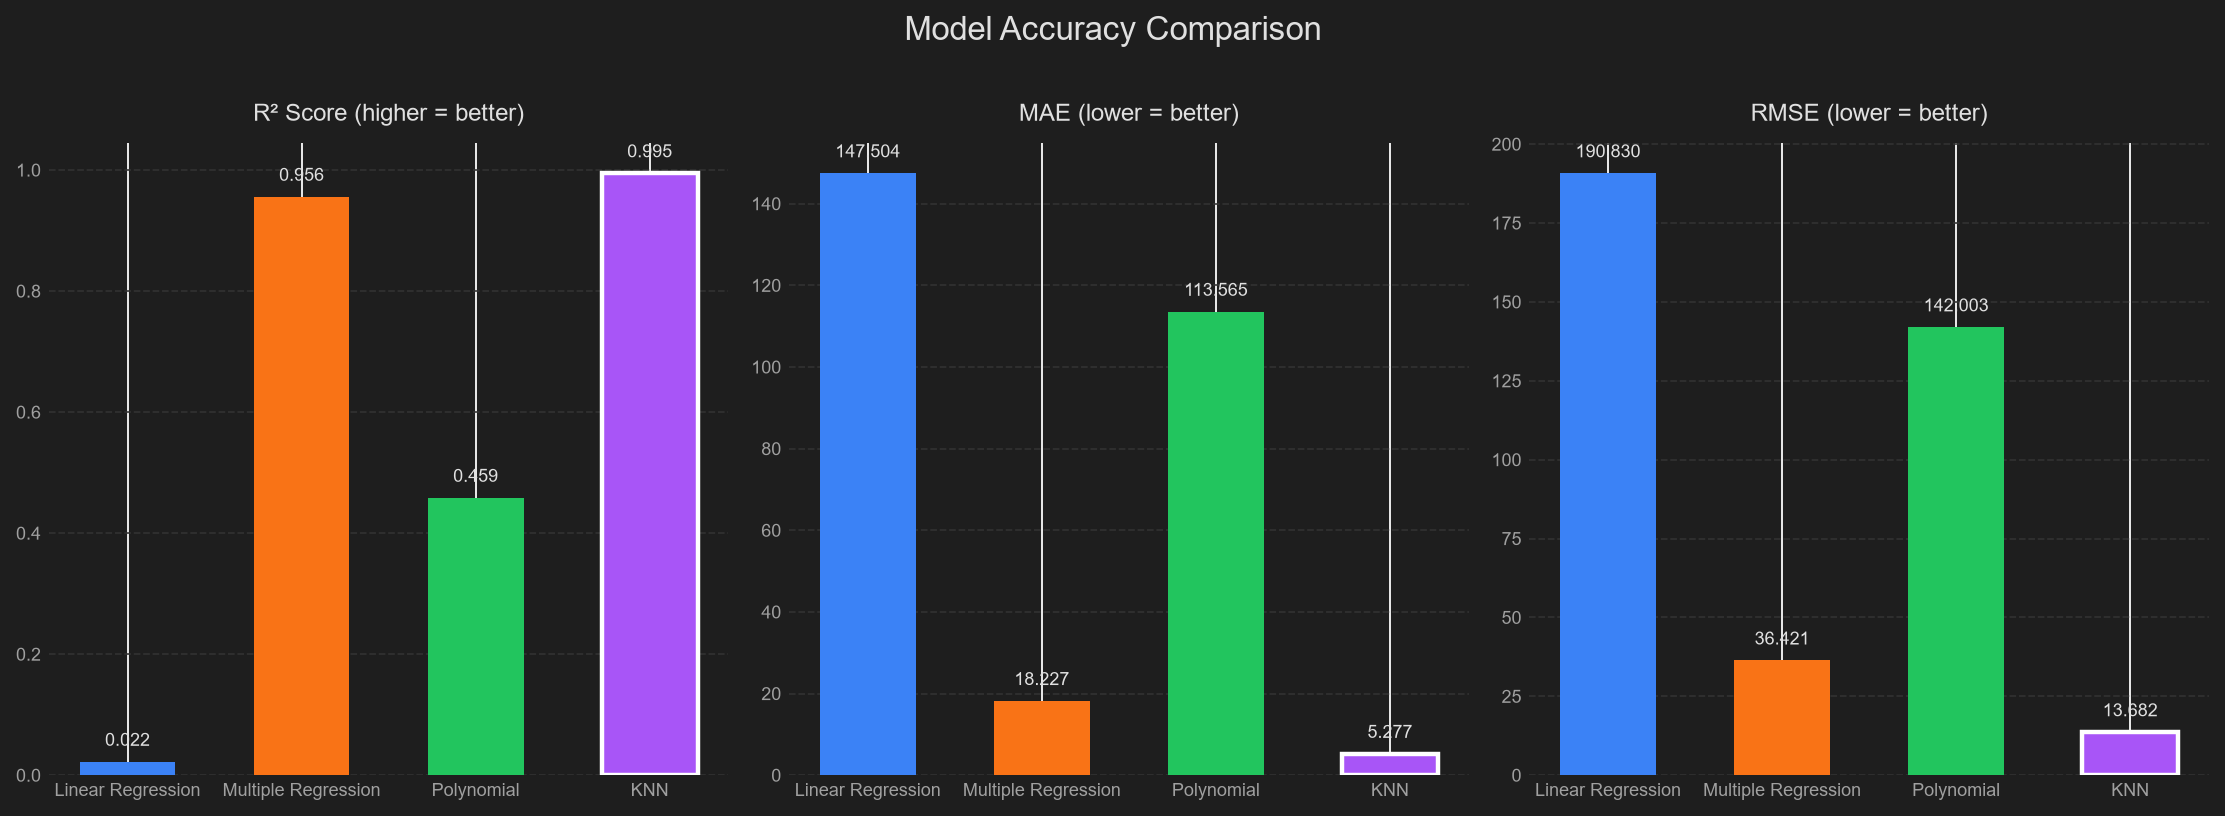
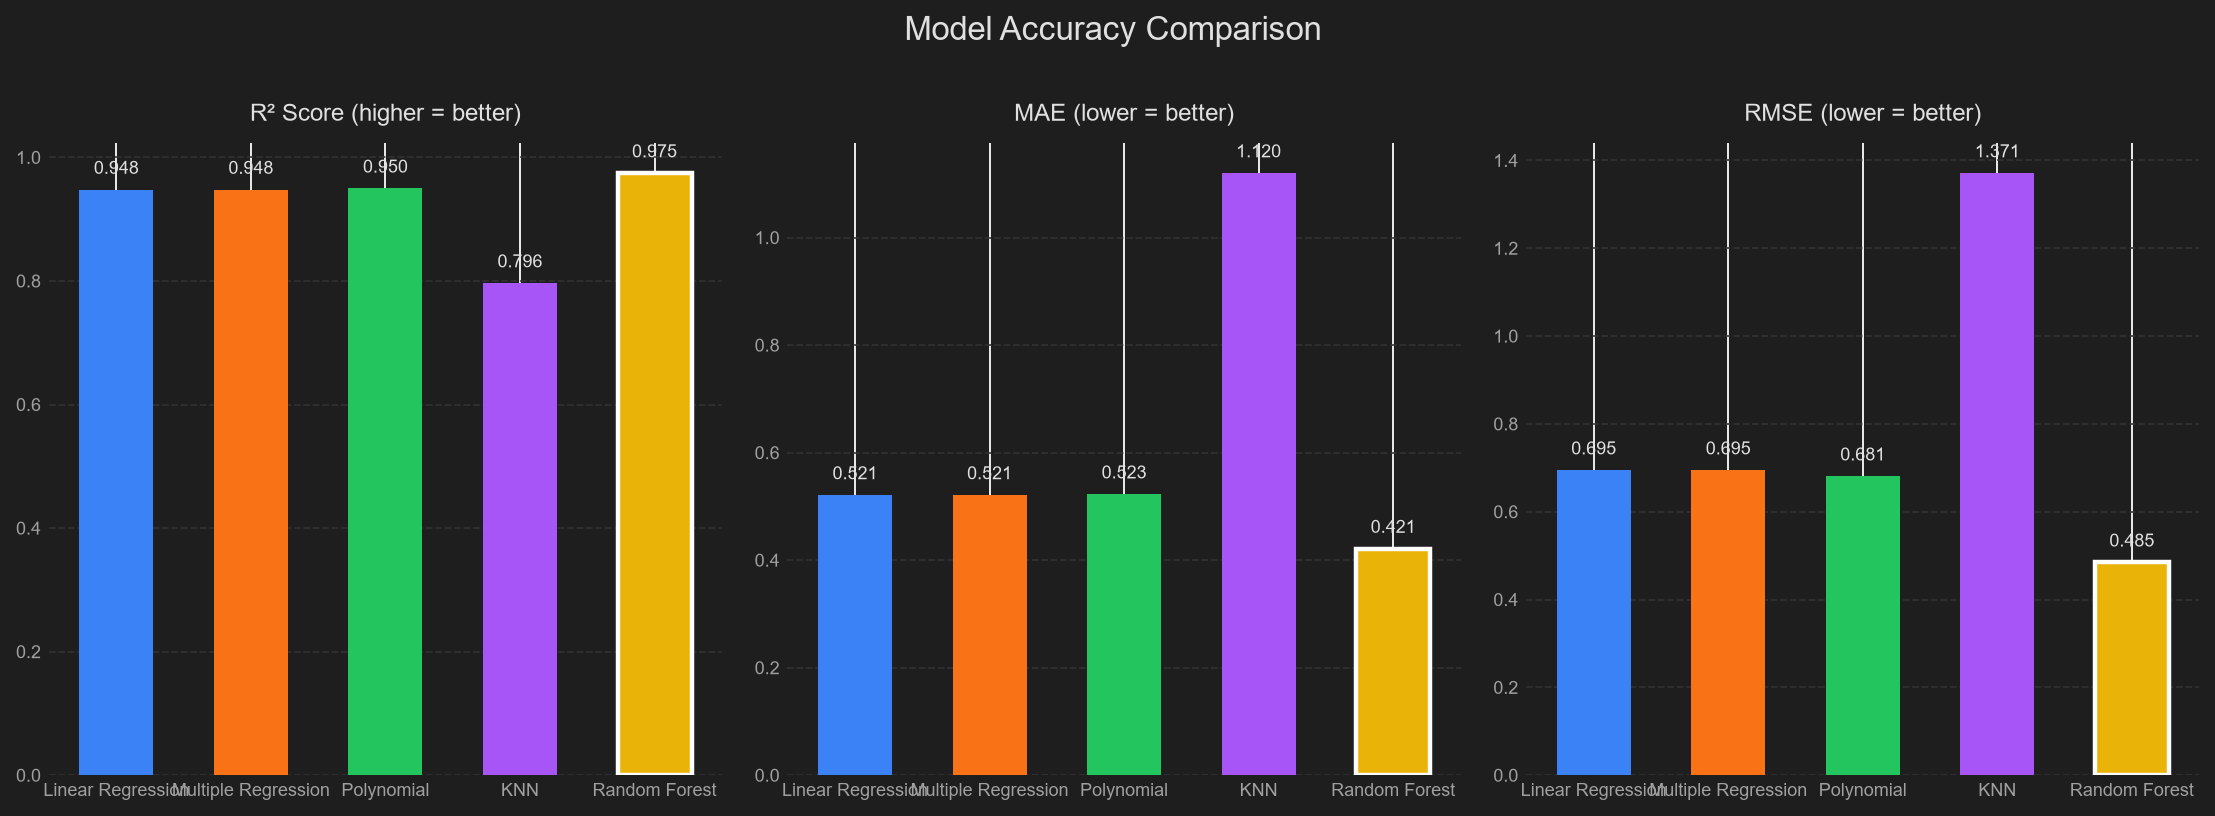
Add Random Forest regression model and update documentation for new features

diff --git a/templates/compare.html b/templates/compare.html
@@ -36,9 +36,10 @@
                 <div class="compare-metrics">
                     {% set model_colors = {
                         "Linear Regression": "#3b82f6",
-                        "Decision Tree":     "#f97316",
-                        "Random Forest":     "#22c55e",
-                        "XGBoost":           "#a855f7"
+                        "Multiple Regression": "#f97316",
+                        "Polynomial":          "#22c55e",
+                        "KNN":                 "#a855f7",
+                        "Random Forest":       "#eab308"
                     } %}
                     {% set best_r2   = results.values() | map(attribute='r2')   | max %}
                     {% set best_mae  = results.values() | map(attribute='mae')  | min %}

diff --git a/templates/index.html b/templates/index.html
@@ -81,6 +81,9 @@
                                     <li class="custom-select__option" role="option" data-value="Polynomial" data-type="Supervised">
                                         <span class="option-icon">📉</span> Polynomial Regression
                                     </li>
+                                    <li class="custom-select__option" role="option" data-value="Random Forest" data-type="Supervised">
+                                        <span class="option-icon">RF</span> Random Forest Regression
+                                    </li>
                                     <li class="custom-select__option" role="option" data-value="K-Means" data-type="Unsupervised" style="display: none;">
                                         <span class="option-icon">💠</span> K-Means Clustering
                                     </li>

diff --git a/ml_models/random_forest_regression.py b/ml_models/random_forest_regression.py
@@ -1,0 +1,15 @@
+from sklearn.ensemble import RandomForestRegressor
+
+
+class RandomForestRegressionModel:
+    def __init__(self, n_estimators=200, random_state=42):
+        self.model = RandomForestRegressor(
+            n_estimators=n_estimators,
+            random_state=random_state,
+        )
+
+    def fit(self, X, y):
+        self.model.fit(X, y)
+
+    def predict(self, X):
+        return self.model.predict(X)

diff --git a/model.py b/model.py
@@ -12,6 +12,7 @@ from ml_models import (
     LogisticRegressionModel,
     PolynomialRegressionModel,
     KNNRegressorModel,
+    RandomForestRegressionModel,
     KMeansClusteringModel,
     IsolationForestModel,
     _load_and_prep,
@@ -58,6 +59,8 @@ def run_model(filepath, model_type="Linear Regression", start_date=None, end_dat
         model = PolynomialRegressionModel(degree=2)
     elif model_type == "KNN":
         model = KNNRegressorModel(n_neighbors=5)
+    elif model_type == "Random Forest":
+        model = RandomForestRegressionModel(n_estimators=200, random_state=42)
     elif model_type == "K-Means":
         model = KMeansClusteringModel(n_clusters=3)
     elif model_type == "Isolation Forest":
@@ -143,12 +146,14 @@ def run_all_models(filepath):
         "Multiple Regression": MultipleRegressionModel(),
         "Polynomial": PolynomialRegressionModel(degree=2),
         "KNN": KNNRegressorModel(n_neighbors=5),
+        "Random Forest": RandomForestRegressionModel(n_estimators=200, random_state=42),
     }
     colors = {
         "Linear Regression": "#3b82f6",
         "Multiple Regression": "#f97316",
         "Polynomial": "#22c55e",
         "KNN": "#a855f7",
+        "Random Forest": "#eab308",
     }
 
     results = {}
@@ -156,7 +161,12 @@ def run_all_models(filepath):
 
     for name, m in models.items():
         if name == "Multiple Regression":
-            features = ["Days", "MA_20", "MA_50"]
+            features = ["Days"]
+            if data["MA_20"].notna().sum() >= 2:
+                features.append("MA_20")
+            if data["MA_50"].notna().sum() >= 2:
+                features.append("MA_50")
+
             data_m = data.dropna(subset=features)
             X_m, y_m = data_m[features], data_m["Close"]
             m.fit(X_m, y_m)

diff --git a/ml_models/__init__.py b/ml_models/__init__.py
@@ -3,6 +3,7 @@ from .multiple_regression import MultipleRegressionModel
 from .logistic_regression import LogisticRegressionModel
 from .polynomial_regression import PolynomialRegressionModel
 from .knn_regressor import KNNRegressorModel
+from .random_forest_regression import RandomForestRegressionModel
 from .kmeans_clustering import KMeansClusteringModel
 from .isolation_forest import IsolationForestModel
 from .utils import _load_and_prep, _calculate_volatility_and_changes

diff --git a/Readme.md b/Readme.md
@@ -7,9 +7,9 @@ A Flask web app for uploading stock data and visualizing closing price trends us
 ## Features
 
 - Upload stock data as CSV, XLS, or XLSX
-- Choose from 4 ML models via a custom styled dropdown
+- Choose from 5 supervised/forecast ML models via a custom styled dropdown
 - View Actual vs Predicted chart with a data summary panel
-- Multi-Model Comparison Dashboard — runs all 4 models at once, shows forecast overlay and accuracy metrics (R², MAE, RMSE)
+- Multi-Model Comparison Dashboard — runs all 5 supervised models at once, shows forecast overlay and accuracy metrics (R², MAE, RMSE)
 - Light / Dark theme toggle that persists across pages (respects OS preference on first visit)
 - Auto-opens browser on `python app.py`
 
@@ -20,9 +20,10 @@ A Flask web app for uploading stock data and visualizing closing price trends us
 | Model | Notes |
 |---|---|
 | Linear Regression | Fast baseline, straight-line trend |
-| Decision Tree Regressor | Non-linear, fits local patterns |
-| Random Forest Regressor | Ensemble, robust to noise |
-| XGBoost Regressor | Gradient boosting, high accuracy |
+| Multiple Regression | Uses date index with moving-average features when available |
+| Polynomial Regression | Captures curved trend lines |
+| KNN Regressor | Local-neighborhood based regression |
+| Random Forest Regressor | Ensemble, robust to non-linear patterns |
 
 ---
 
@@ -69,7 +70,7 @@ StockPredictionFlask/
 ```bash
 git clone https://github.com/yourusername/stock-price-prediction.git
 cd stock-price-prediction
-pip install flask pandas scikit-learn matplotlib openpyxl xgboost werkzeug numpy
+pip install flask pandas scikit-learn matplotlib openpyxl werkzeug numpy
 ```
 
 ---
@@ -90,8 +91,7 @@ Browser opens automatically at `http://127.0.0.1:5000`.
 |---|---|
 | Python + Flask | Backend and routing |
 | Pandas + NumPy | Data loading and preprocessing |
-| Scikit-learn | Linear Regression, Decision Tree, Random Forest, metrics |
-| XGBoost | XGBoost Regressor |
+| Scikit-learn | Linear Regression, Multiple Regression, Polynomial Regression, KNN, Random Forest, metrics |
 | Matplotlib | Chart generation |
 | HTML / CSS / JS | Frontend UI with theme support |
 